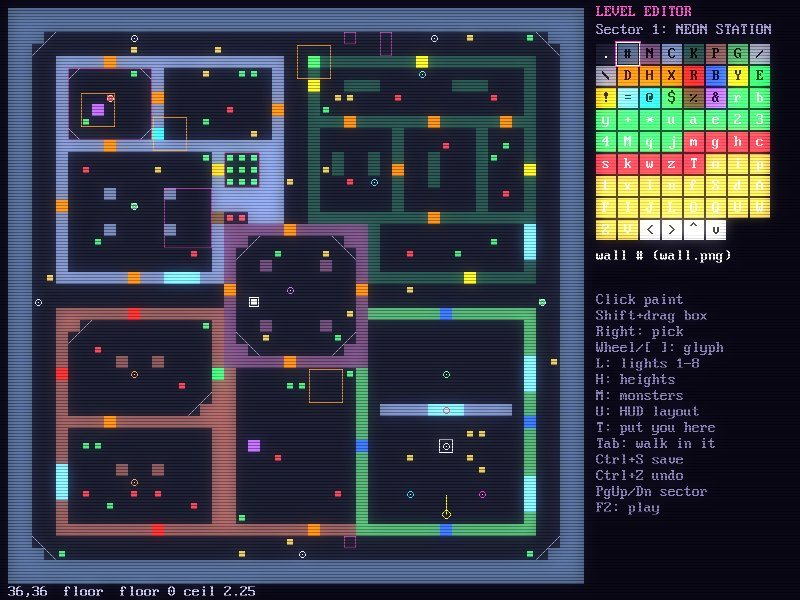
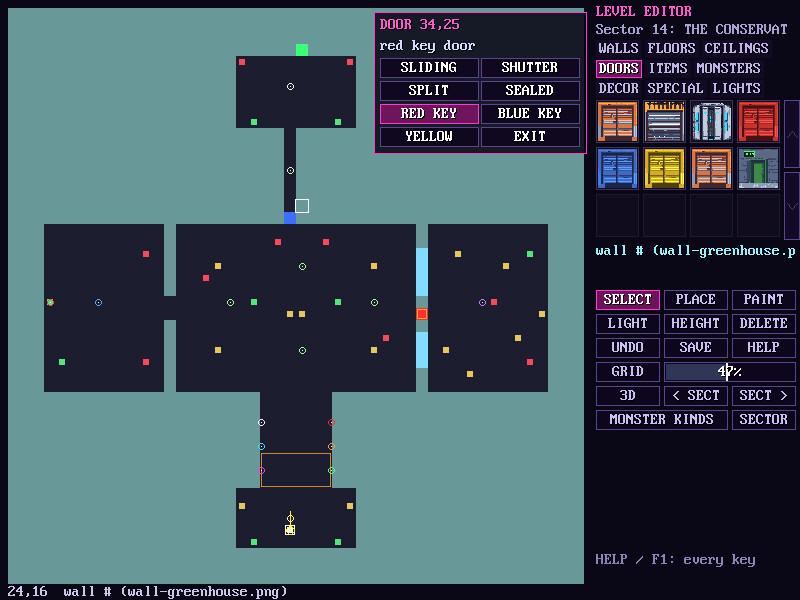
README: screenshots of the new editor, and a showcase sector

diff --git a/README.md b/README.md
@@ -19,7 +19,8 @@ effects. Every picture comes in pixel art or a high-resolution painting
 |---|---|
 | ![The cryo lab's control room](docs/screenshots/cryo-lab.jpg) | ![The boss arena](docs/screenshots/boss-arena.jpg) |
 | ![Jacked into the network](docs/screenshots/network.jpg) | ![The data vault's server canyon](docs/screenshots/data-vault.jpg) |
-| ![A code terminal: a real QB64 program, compiled and run](docs/screenshots/code-terminal.jpg) | ![The level editor's map view](docs/screenshots/editor-map.jpg) |
+| ![A code terminal: a real QB64 program, compiled and run](docs/screenshots/code-terminal.jpg) | ![The level editor in 3D: a statue's pane, the picker, a lit painting](docs/screenshots/editor-walk.jpg) |
+| ![The level editor's map view: a door's pane, the picker](docs/screenshots/editor-map.jpg) | ![The Conservatory's light lab, built with the editor](docs/screenshots/light-lab.jpg) |
 
 ## Play it
 
